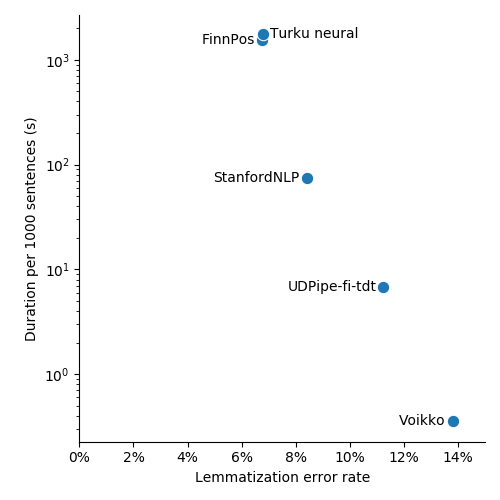
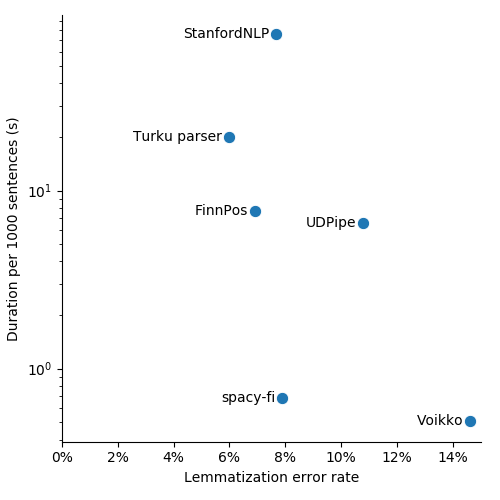
Updated results

diff --git a/plot_results.py b/plot_results.py
@@ -17,7 +17,9 @@ def main():
         load_results('ftb2-sofie'),
         load_results('ftb2-wikipedia')
     ])
-    full_results['model'] = full_results['model'].replace('Turku-neural-parser', 'Turku neural')
+    full_results['model'] = (full_results['model']
+                             .replace('Turku-neural-parser', 'Turku parser')
+                             .replace('UDPipe-fi-tdt', 'UDPipe'))
     full_results = full_results.rename(columns={
         'Lemmatization WER': 'Lemmatization error rate',
         'UPOS WER': 'Part-of-speech error rate'
@@ -29,11 +31,13 @@ def main():
                              (full_results['Dataset'] == 'ftb1u'))]
 
     model_order = [
-        'Voikko', 'UDPipe-fi-tdt', 'StanfordNLP', 'Turku neural', 'FinnPos', 'spacy-fi'
+        'Voikko', 'UDPipe', 'StanfordNLP', 'Turku parser', 'FinnPos', 'spacy-fi'
     ]
 
     sns.barplot(x='model', y='Lemmatization error rate', data=results, order=model_order)
     plt.gca().yaxis.set_major_formatter(mtick.PercentFormatter(1, decimals=0))
+    for tick in plt.gca().xaxis.get_major_ticks():
+        tick.label.set_fontsize(9)
     plt.xlabel('')
     plt.savefig(os.path.join(imagedir, 'lemma_wer.png'))
     plt.close()
@@ -41,23 +45,31 @@ def main():
     sns.barplot(x='model', y='Lemmatization error rate', hue='Dataset',
                 data=full_results, order=model_order)
     plt.gca().yaxis.set_major_formatter(mtick.PercentFormatter(1, decimals=0))
+    for tick in plt.gca().xaxis.get_major_ticks():
+        tick.label.set_fontsize(9)
     plt.xlabel('')
     plt.savefig(os.path.join(imagedir, 'lemma_wer_by_dataset.png'))
     plt.close()
 
     sns.barplot(x='model', y='Lemmatization aligned accuracy', data=results, order=model_order)
     plt.gca().yaxis.set_major_formatter(mtick.PercentFormatter(1, decimals=0))
+    for tick in plt.gca().xaxis.get_major_ticks():
+        tick.label.set_fontsize(9)
     plt.xlabel('')
     plt.savefig(os.path.join(imagedir, 'lemma_acc.png'))
     plt.close()
 
     sns.barplot(x='model', y='Lemmatization F1', data=results, order=model_order)
+    for tick in plt.gca().xaxis.get_major_ticks():
+        tick.label.set_fontsize(9)
     plt.xlabel('')
     plt.savefig(os.path.join(imagedir, 'lemma_f1.png'))
     plt.close()
 
     sns.barplot(x='model', y='Part-of-speech error rate', data=results, order=model_order)
     plt.gca().yaxis.set_major_formatter(mtick.PercentFormatter(1, decimals=0))
+    for tick in plt.gca().xaxis.get_major_ticks():
+        tick.label.set_fontsize(9)
     plt.xlabel('')
     plt.savefig(os.path.join(imagedir, 'pos_wer.png'))
     plt.close()
@@ -65,17 +77,23 @@ def main():
     sns.barplot(x='model', y='Part-of-speech error rate', hue='Dataset',
                 data=full_results, order=model_order)
     plt.gca().yaxis.set_major_formatter(mtick.PercentFormatter(1, decimals=0))
+    for tick in plt.gca().xaxis.get_major_ticks():
+        tick.label.set_fontsize(9)
     plt.xlabel('')
     plt.savefig(os.path.join(imagedir, 'pos_wer_by_dataset.png'))
     plt.close()
 
     sns.barplot(x='model', y='UPOS aligned accuracy', data=results, order=model_order)
     plt.gca().yaxis.set_major_formatter(mtick.PercentFormatter(1, decimals=0))
+    for tick in plt.gca().xaxis.get_major_ticks():
+        tick.label.set_fontsize(9)
     plt.xlabel('')
     plt.savefig(os.path.join(imagedir, 'pos_acc.png'))
     plt.close()
 
     sns.barplot(x='model', y='UPOS F1', data=results, order=model_order)
+    for tick in plt.gca().xaxis.get_major_ticks():
+        tick.label.set_fontsize(9)
     plt.xlabel('')
     plt.savefig(os.path.join(imagedir, 'pos_f1.png'))
     plt.close()
@@ -89,12 +107,8 @@ def main():
     for x, y, text in zip(results_by_model['Lemmatization error rate'],
                             results_by_model['Duration per 1000 sentences (s)'],
                             results_by_model['model']):
-        if text == 'Turku neural':
-            ha = 'left'
-            textrelx = 5
-        else:
-            ha = 'right'
-            textrelx = -5
+        ha = 'right'
+        textrelx = -5
         plt.annotate(text, (x, y), xytext=(textrelx, 0), textcoords='offset points',
                      horizontalalignment=ha, verticalalignment='center')
     plt.gca().xaxis.set_major_formatter(mtick.PercentFormatter(1, decimals=0))
@@ -108,12 +122,8 @@ def main():
     for x, y, text in zip(results_by_model['Part-of-speech error rate'],
                           results_by_model['Duration per 1000 sentences (s)'],
                           results_by_model['model']):
-        if text == 'FinnPos':
-            ha = 'left'
-            textrelx = 5
-        else:
-            ha = 'right'
-            textrelx = -5
+        ha = 'right'
+        textrelx = -5
         plt.annotate(text, (x, y), xytext=(textrelx, 0), textcoords='offset points',
                      horizontalalignment=ha, verticalalignment='center')
     plt.gca().xaxis.set_major_formatter(mtick.PercentFormatter(1, decimals=0))

diff --git a/README.md b/README.md
@@ -10,6 +10,7 @@ source Finnish part-of-speech taggers and lemmatization algorihtms.
 * [UDPipe](http://ufal.mff.cuni.cz/udpipe) (through spacy-udpipe)
 * [StanfordNLP](https://stanfordnlp.github.io/stanfordnlp/) (through spacy-stanfordnlp)
 * [Voikko](https://voikko.puimula.org/)
+* [Experimental Finnish model for spaCy](https://github.com/aajanki/spacy-fi)
 
 ### Test datasets
 
@@ -50,7 +51,7 @@ python evaluate.py
 python plot_results.py
 ```
 
-The numerical results will be saved in results/evaluation.csv, POS and
+The numerical results will be saved in results/evaluation*.csv, POS and
 lemma errors made by each model will be saved in results/errorcases,
 and plots will be saved in results/images.
 
@@ -58,34 +59,37 @@ and plots will be saved in results/images.
 
 ### Lemmatization
 
-![Lemmatization error rates](images/lemma_wer.png)
+![Lemmatization error rates](images/lemma_wer_by_dataset.png)
 
 Lemmatization error rates (proportion of tokens where the predicted
-lemma differs from the ground truth lemma) for the tested algorithms.
-The error bars are standard deviations over datasets.
+lemma differs from the ground truth lemma) for the tested algorithms
+on the test datasets.
 
 ![Lemmatization speed](images/lemma_speed.png)
 
-Execution duration as a function of the achieved error rate. Lower
-values are better on both axes. Notice that the Y-axis is on log
-scale.
+Execution duration as a function of the average (over datasets) error
+rate. Lower values are better on both axes. Notice that the Y-axis is
+on log scale.
 
-Improvements seem to require exponentially more computation. Halving
-the error rate from 14% (Voikko) to 7% (FinnPos/Turku neural parser)
-increases the computational effort more than 1000-fold! All algorihtms
-are tested on CPU (4-core Intel Core Skylake i5). Turku neural parser
-and StanfordNLP can be run on a GPU which most likely improves their
-performance, but I haven't tested that.
+The execution duration is measured as a batched evaluation (a batch
+contains all sentences from one dataset) on a 4 core CPU. Turku neural
+parser and StanfordNLP can be run on a GPU which most likely improves
+their performance, but I haven't tested that.
 
 ### Part-of-speech tagging
 
-![Part-of-speech error rates](images/pos_wer.png)
+![Part-of-speech error rates](images/pos_wer_by_dataset.png)
 
 Part-of-speech error rates for the tested algorithms.
 
+Note that FinnPos and Voikko do not make a distinction between
+auxiliary and main verbs and therefore their performance suffers by
+4-5% in this evaluation as they mispredict all AUX tags as VERBs.
+
 ![Part-of-speech speed](images/pos_speed.png)
 
-Execution duration as a function of the achieved error rate.
+Execution duration as a function of the average error rate.
 
-After a certain point, increasing the computational effort provides
-only minimal accuracy gains.
+Comparing spacy-fi and StanfordNLP results, it seems that increasing
+the computational effort about 100-fold seems to improve the accuracy
+only by a small amount.
